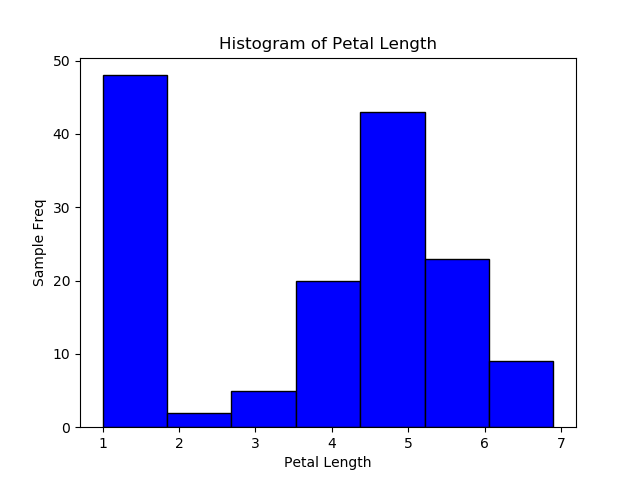
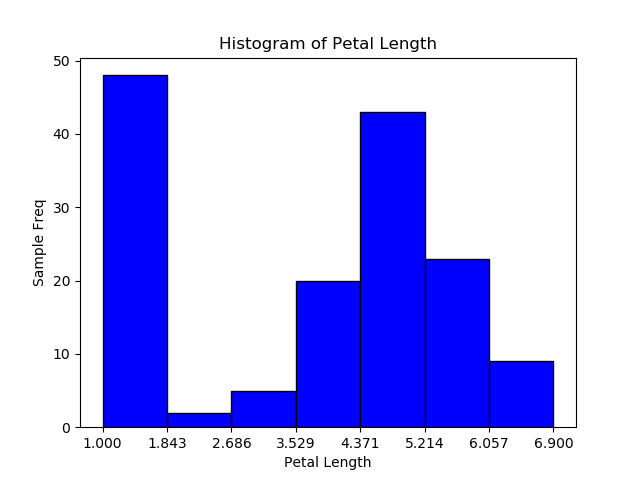
updates to code for producing histograms

diff --git a/Project-Iris/analysis.py b/Project-Iris/analysis.py
@@ -2,44 +2,113 @@
 # Programming & Scripting Project 2020
 # Using datasets downloaded from http://archive.ics.uci.edu/ml/datasets/Iris
 
+from numpy import arange                                                        # from numpy import the arange() function
 import pandas as pd                                                             # Import pandas as pd 
 import matplotlib.pyplot as plt                                                 # Import matplotliv.pyplot as plt
+import matplotlib.ticker as mtick                                               # Import matplotlib.ticker as mtick
 
 head_row = ["Sepal Length", "Sepal Width", "Petal Length",                      # Header row for dataset
             "Petal Width", "Class"]
 
 df = pd.read_csv("datasets/bezdekIris.data", names=head_row)                    # Use pandas to read csv & include header row.
-                                                                                # note: dataset bedekIris.data used in Project.
+                                                                                # note: dataset bedekIris.data used in Project. 
+
+                                                                               
 # Summary of Variables
                
 with open('outputs/summary.txt', 'w') as f:                                     # Create a writeable text file named summary.txt
     print("DATASET VARIABLES SUMMARIES:\n\n", df.describe(), file=f)            # Use pandas df.describe() to print summary of each variable to summary text file
 
-# Histograms of Variables
-                                                                           
-colour = ['r', 'g', 'b', 'c']                                                   # List of colours to be used for plotting different histograms.
-n = 0                                                                           # Initialize for loop with n = 0
-                                                                                  
-for n in range(0, 4): 
-                                                           
-    var = head_row[n]                                                           # For loop to iternate through variables in head_row, 4No. variables (0 to 3)
-    plt.figure(n)                                                               # plotting a histogram for each variable, figures(0 - 3)
-    plt.hist(df[var], bins=7, facecolor=colour[n], ec="black")                  # setting number of bins, applying different colours & a black edge colour to bins
-    plt.xlabel(var)                                                             # label x-axis (variable name)
-    plt.ylabel("Sample Freq")                                                   # label y-axis (sample frequency)
-    plt.title("Histogram of " + var)                                            # add titles                                                                             
-    plt.savefig(fname="outputs/" + var + " histogram")                          # saving each individual plots in the outputs folder 
-    n = n + 1                                                                   
-
-# Scatter Plots - Pairs of Variables 
-# all pairs of variables on individual subplots plotted
-# on a 1 single figure
 
 sl = df["Sepal Length"]                                                         # assigning each of the dataset's variables or column arrays a name
 sw = df["Sepal Width"]                                                          # for ease of reading & writing of code
 pl = df["Petal Length"]
 pw = df["Petal Width"]
-                                                                                    
+
+
+                         
+# Histograms of the Dataset Variables
+                                                                           
+colour = ['r', 'g', 'b', 'c']                                                   # List of colours to be used for plotting different histograms.
+n = 0                                                                           # Initialize for loop with n = 0
+n_bins = 7                                                                      # setting the number of bins in each histogram = 7
+                                                                                  
+for n in range(0, 4): 
+                                                           
+    var = head_row[n]                                                           # For loop to iternate through variables in head_row, 4No. variables (0 to 3)
+    plt.figure(n)                                                               # plotting a histogram for each variable, figures(0 - 3)
+    plt.hist(df[var], bins=n_bins, facecolor=colour[n], ec="black")             # setting number of bins, applying different colours & a black edge colour to bins
+
+    start = min(df[var])                                                        # the start value of the histogram bins (min value of variable)
+    end = max(df[var])                                                          # the end value of the histogram bins (max value of variable)
+    step = (end - start) / n_bins                                               # variable values between bins 
+    plt.xticks(arange(start, (end + step) ,step))                               # applying bin values to the xticks of histogram           
+                                                      
+    plt.xlabel(var)                                                             # label x-axis (variable name)
+    plt.ylabel("Sample Freq")                                                   # label y-axis (sample frequency)
+    plt.title("Histogram of " + var)                                            # add titles                                                                             
+    plt.savefig(fname="outputs/" + var + " histogram")                          # saving each plot as a individual file in the outputs folder 
+    n = n + 1
+
+
+
+# Combined Histograms of the Dataset Variables
+# all variable histograms plotted on a single figure
+
+fig, ((ax1, ax2), (ax3, ax4)) = plt.subplots(2, 2, sharey=True)                 # using subplots to provide 4no histograms on a single figure (2 rows x 2 columns)
+                                                                                # y axis shared between plots (sharey=True)
+ 
+ax1.hist(sl, bins=n_bins, facecolor='blue', ec="black",                         # axes 1 - Sepal Length (sl), no of bins, colour of plot, edge colour & label.  
+           label="Sepal Length (cm)")
+ax1.set(ylabel="Percentage of Samples")                                         # applying the shared y axis label
+
+start = min(sl)                                                                 # the start value of the histogram bins (min value of variable)
+end = max(sl)                                                                   # the end value of the histogram bins (max value of variable)
+step = (end - start) / n_bins                                                   # variable values between bins  
+ax1.set_xticks(arange(start, (end + step) ,step))                               # applying bin values to the xticks of histogram         
+ax1.yaxis.set_major_formatter(mtick.PercentFormatter())                         # displaying the y-axis values as percentage of samples
+ax1.legend()
+
+ax2.hist(sw, bins=n_bins, facecolor='green', ec="black",                        # axes 2 - Sepal Width (sw), no of bins, colour of plot, edge colour & label. 
+            label="Sepal Width (cm)")                                           
+
+start = min(sw)                                                                 # as per axes 1
+end = max(sw)                                                                   
+step = (end - start) / n_bins                                                   
+ax2.set_xticks(arange(start, (end + step) ,step))                               
+ax2.yaxis.set_major_formatter(mtick.PercentFormatter())                         
+ax2.legend()
+
+ax3.hist(pl, bins=n_bins, facecolor='orange', ec="black",                       # axes 3 - Petal Length (pl), no of bins, colour of plot, edge colour & label.
+            label="Petal Length (cm)")
+ax3.set(ylabel="Percentage of Samples")
+
+start = min(pl)                                                                 # as per axes 1
+end = max(pl)
+step = (end - start) / n_bins
+ax3.set_xticks(arange(start, (end + step) ,step))
+ax3.yaxis.set_major_formatter(mtick.PercentFormatter())
+ax3.legend()
+
+ax4.hist(pw, bins=n_bins, facecolor='red', ec="black",                          # axes 4 - Petal Width (pw), no of bins, colour of plot, edge colour & label.
+            label="Petal Width (cm)")
+
+start = min(pw)                                                                 # as per axes 1
+end = max(pw)
+step = (end - start) / n_bins
+ax4.set_xticks(arange(start, (end + step) ,step))
+ax4.yaxis.set_major_formatter(mtick.PercentFormatter())
+ax4.legend()
+
+plt.tight_layout()                                                              # adjusts subplots so all fit within figure
+plt.savefig(fname="outputs/Combined Histograms")                                # save file to outputs folder
+                                                                    
+
+
+# Scatter Plots - Pairs of Variables 
+# all pairs of variables on individual subplots plotted
+# on a 1 single figure
+                                                           
 f, ((ax1, ax2), (ax3, ax4), (ax5, ax6)) = plt.subplots(3, 2)                    # using subplots to provide 6no. plots on a single figure f (3 rows x 2 columns)
 f.suptitle("Scatter Plots - Pairs of Variables")                                # title for figure
 
@@ -63,10 +132,12 @@ ax6.legend(fontsize="x-small", markerscale=2, edgecolor="black")                
 
 plt.savefig(fname="outputs/Scatter Plots - Pairs of Variables")                 # saving plot in the outputs folder 
 
+
+
 # Combined Scatter Plots - Pairs of Variables
 # all pairs of vaiables combined on a single scatter plot 
         
-plt.figure(5)                                                                   # combination of above plots on a single plot or axes
+plt.figure(6)                                                                   # combination of above plots on a single plot or axes
 plt.scatter(sl, sw, marker='.', c='b', label="SL v SW") 
 plt.scatter(sl, pl, marker='.', c='g', label="SL v PL")
 plt.scatter(sl, pw, marker='.', c='m', label="SL v PW")  

diff --git a/Project-Iris/scripts/hist_test.py b/Project-Iris/scripts/hist_test.py
@@ -1,7 +1,9 @@
 # plotting histograms using subplots
 
+from numpy import arange
 import pandas as pd                                                             
-import matplotlib.pyplot as plt                                                 
+import matplotlib.pyplot as plt
+import matplotlib.ticker as mtick                                                 
 
 head_row = ["sepal_length", "sepal_width", "petal_length",                     
             "petal_width", "class"]
@@ -10,24 +12,57 @@ df = pd.read_csv("../datasets/bezdekIris.data", names=head_row)
 
 n_bins = 7
 
-fig, ((ax1, ax2), (ax3, ax4)) = plt.subplots(2, 2)
-fig.suptitle("Histogram of Variables")
+fig, ((ax1, ax2), (ax3, ax4)) = plt.subplots(2, 2, sharey=True)
+fig.suptitle("Histograms of Dataset Variables")
 
-ax1.hist(df["sepal_length"], bins=n_bins, facecolor='blue', ec="black")
-ax1.set(xlabel="Sepal Length(cm)", ylabel="No. Samples")
+ax1.hist(df["sepal_length"], bins=n_bins, facecolor='blue', ec="black", label="Sepal Length (cm)")
+ax1.set(ylabel="Percentage of Samples")
 
-ax2.hist(df["sepal_width"], bins=n_bins, facecolor='green', ec="black")
-ax2.set(xlabel="Sepal Width(cm)")
+start = min(df["sepal_length"])
+end = max(df["sepal_length"])
+step = (end - start) / n_bins
+ax1.set_xticks(arange(start, (end + step) ,step))
 
-ax3.hist(df["petal_length"], bins=n_bins, facecolor='orange', ec="black")
-ax3.set(xlabel="Petal Length(cm)", ylabel="No. Samples")
+ax1.legend()
+ax1.yaxis.set_major_formatter(mtick.PercentFormatter())
 
-ax4.hist(df["petal_width"], bins=n_bins, facecolor='red', ec="black")
-ax4.set(xlabel="Petal Width(cm)")
 
-plt.tight_layout()
+ax2.hist(df["sepal_width"], bins=n_bins, facecolor='green', ec="black", label="Sepal Width (cm)") 
+
+start = min(df["sepal_width"])
+end = max(df["sepal_width"])
+step = (end - start) / n_bins
+ax2.set_xticks(arange(start, (end + step) ,step))
+
+ax2.legend()
+ax2.yaxis.set_major_formatter(mtick.PercentFormatter())
+
+
+ax3.hist(df["petal_length"], bins=n_bins, facecolor='orange', ec="black", label="Petal Length (cm)")
+ax3.set(ylabel="Percentage of Samples")
+
+start = min(df["petal_length"])
+end = max(df["petal_length"])
+step = (end - start) / n_bins
+ax3.set_xticks(arange(start, (end + step) ,step))
+
+ax3.legend()
+ax3.yaxis.set_major_formatter(mtick.PercentFormatter())
+
+ax4.hist(df["petal_width"], bins=n_bins, facecolor='red', ec="black", label="Petal Width (cm)")
+
+start = min(df["petal_width"])
+end = max(df["petal_width"])
+step = (end - start) / n_bins
+ax4.set_xticks(arange(start, (end + step) ,step))
+
+ax4.legend()
+ax4.yaxis.set_major_formatter(mtick.PercentFormatter())
+
+#plt.tight_layout()
 #plt.show()
 #plt.savefig("add_outputs/histograms_combined",bbox_inches="tight")
+
 
 # dataframes by flower class
 
@@ -45,6 +80,7 @@ plt.xlabel("Sepal Length")
 plt.legend(prop={'size': 10})
 #plt.show()
 #plt.savefig("add_outputs/histogram_by_flower_sepal_length")
+
 
 # histograms sepal width
 
@@ -76,18 +112,31 @@ plt.hist(vir["petal_width"], bins=7, facecolor='g', ec="black", alpha=0.3, label
 plt.hist(ver["petal_width"], bins=7, facecolor='r', ec="black", alpha=0.3, label="Versicolor")
 plt.xlabel("Petal Width")
 plt.legend(prop={'size': 10})
-plt.show()
+#plt.show()
 #plt.savefig("add_outputs/histogram_by_flower_petal_width")
-
+                                                                            
 colour = ['r', 'g', 'b', 'c']                                                   
-n = 0                                                                             
-                                                                                 
-for n in range(0, 4):                                                            
-    var = head_row[n]                                                                         
+n = 0                                                                           
+n_bins = 7                                                                      
+                                                                                  
+for n in range(0, 4): 
+                                                           
+    var = head_row[n]                                                           
     plt.figure(n)                                                               
-    plt.hist(df[var], bins=7, facecolor=colour[n], ec="black")                  
+    plt.hist(df[var], bins=n_bins, facecolor=colour[n], ec="black") 
+    
+    start = min(df[var])                                                                 
+    end = max(df[var])                                                                   
+    step = (end - start) / n_bins                                                   
+    loc = arange(start, (end + step) ,step)
+    plt.xticks(loc)
+            
     plt.xlabel(var)                                                             
-    plt.ylabel("Sample Freq")                                                   
-    plt.title("Histogram of " + var)                                                                                                                         
-    plt.savefig(fname="outputs/" + var + " histogram")                           
-    n = n + 1   
+    plt.ylabel("Sample Freq")                                                 
+    plt.title("Histogram of " + var)  
+                                                                                                                                        
+    n = n + 1
+    plt.show()                                                                                 
+
+
+
